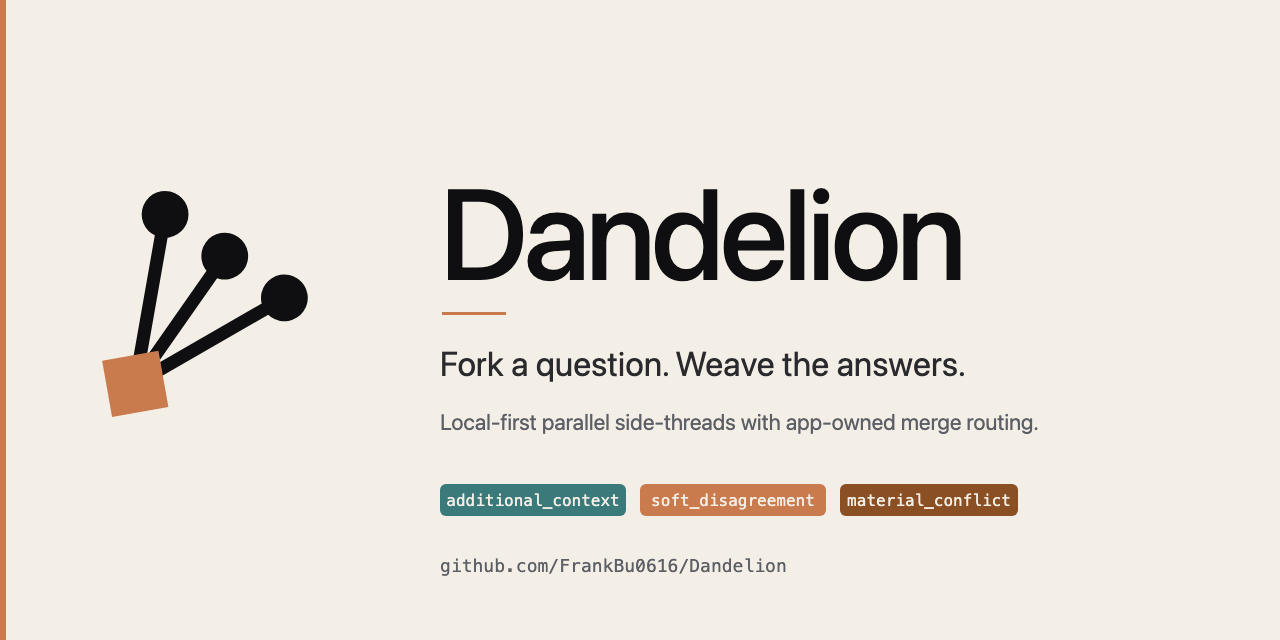
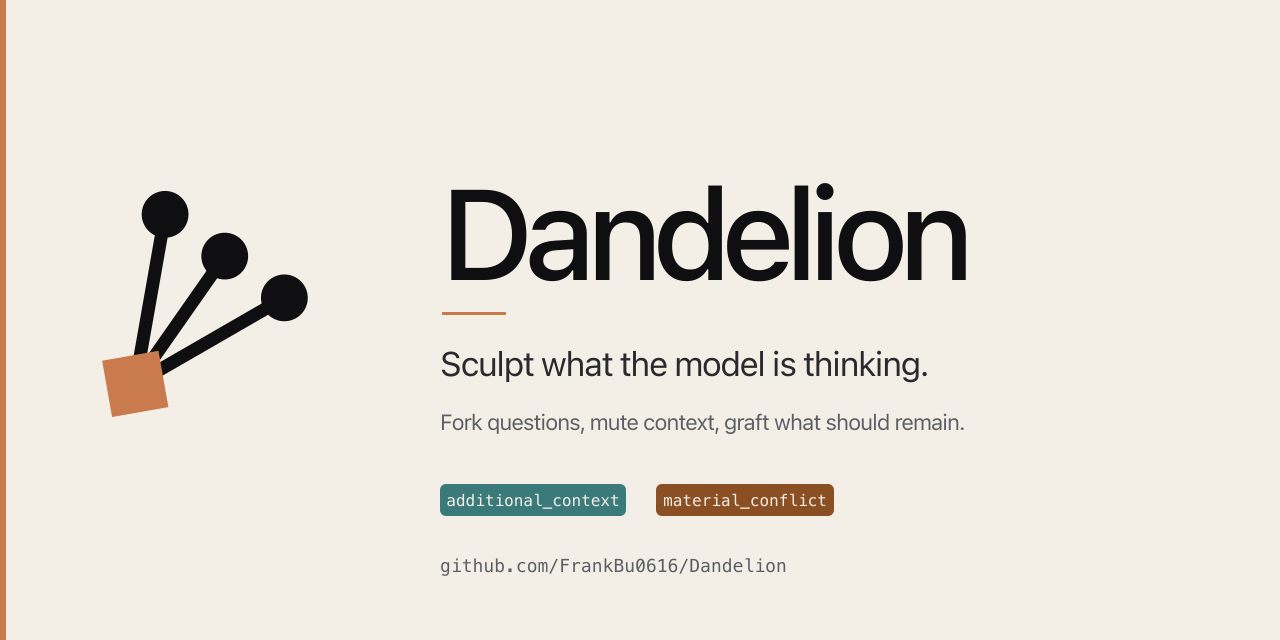
update website

diff --git a/CHANGELOG.md b/CHANGELOG.md
@@ -9,6 +9,32 @@ adheres to [Semantic Versioning][semver] for the snapshot schema (see
 [kc]: https://keepachangelog.com/en/1.1.0/
 [semver]: https://semver.org/
 
+## [0.1.2] - 2026-05-22
+
+Release-polish pass after the first public tag.
+
+### Fixed
+
+- Seed-panel layering now covers old floating graft visuals when the
+  tray is open.
+- Empty keys in `.env` are treated as unset, so copying
+  `.env.example` no longer hides provider setup warnings or model
+  discovery.
+- Node 20 CI now uses default `node --test` discovery instead of a
+  shell glob that was not portable across runners.
+
+### Changed
+
+- Seed history replay and retired legacy context fallback paths are now
+  explicit in the prototype.
+- README hero now includes the demo GIF and muted-context captions can
+  expand for longer routing records.
+
+### Tests
+
+- 54 → 61 tests, including `.env` empty-key behavior and seed-history
+  replay coverage.
+
 ## [0.1.0] - 2026-05-22
 
 First open-source release. Pre-alpha; the design is locked enough to
@@ -107,6 +133,6 @@ test the core context-modulation loop but features will change.
 
 ### Tests
 
-- 13 → 54 (`mute-filters`, `persistence`, `sessions-server`, `.env`
+- 13 → 61 (`mute-filters`, `persistence`, `sessions-server`, `.env`
   loader, and static-file gate coverage added on top of the existing
   classifier and graph tests).

diff --git a/README.md b/README.md
@@ -14,7 +14,7 @@ what should.
 [![License: MIT](https://img.shields.io/badge/license-MIT-0F0F12.svg)](./LICENSE)
 [![Node](https://img.shields.io/badge/node-%E2%89%A520-C97B4E.svg)](https://nodejs.org/)
 [![Status](https://img.shields.io/badge/status-pre--alpha-3A7A7A.svg)](#status)
-[![Tests](https://img.shields.io/badge/tests-54%20passing-3A7A7A.svg)](./tests)
+[![Tests](https://img.shields.io/badge/tests-61%20passing-3A7A7A.svg)](./tests)
 [![CI](https://github.com/FrankBu0616/Dandelion/actions/workflows/test.yml/badge.svg)](https://github.com/FrankBu0616/Dandelion/actions/workflows/test.yml)
 
 </div>
@@ -158,22 +158,36 @@ If not, the feature belongs to generic branching chat, not Dandelion.
 - 🔌 **BYO keys**, local-first — Dandelion never phones home. Your
   Anthropic key talks to Anthropic; your Ollama runs locally. No
   telemetry, no account, no hosted backend.
-- 🧪 **54 tests** covering the classifier, mute filters, persistence,
+- 🧪 **61 tests** covering the classifier, mute filters, persistence,
   server session store, and `.env` loader.
 
 ## Quick start
+
+### Try it in your browser (no clone, no install)
+
+The prototype is fully client-side: paste your own Anthropic API key (or
+point it at your local Ollama) and everything runs against api.anthropic.com
+directly from the browser. Keys live only in your `localStorage`.
+
+> Deploy your own copy in two clicks → [deploy to Vercel](https://vercel.com/new/clone?repository-url=https%3A%2F%2Fgithub.com%2FFrankBu0616%2FDandelion).
+> No build step required; Vercel serves the static prototype as-is.
+
+### Run locally (recommended for development)
 
 ```sh
 git clone https://github.com/FrankBu0616/Dandelion.git
 cd Dandelion
 cp .env.example .env       # then edit .env — fill in keys or leave blank for Ollama-only
 npm start                  # serves http://localhost:4321
-npm test                   # 54 unit tests, no network needed
+npm test                   # 61 unit tests, no network needed
 ```
 
 Requires Node.js 20+. **No `npm install`** — Dandelion has no npm
 dependencies. The prototype pulls its three frontend libraries (marked,
 KaTeX, DOMPurify) directly from CDN on page load.
+
+The local Node server is optional in the browser-direct deploy — it stays
+useful for the merge harness, scripted scenarios, and faster iteration.
 
 The server auto-loads `.env` from the repo root on startup
 (`scripts/load-env.mjs`). Values already in your shell win over the
@@ -358,7 +372,7 @@ scripts/
     prompts.mjs                    continuation-prompt builders
     sessions.mjs                   file-backed session storage (./sessions/*.json)
 sessions/                          server-side session snapshots (gitignored)
-tests/                             node:test suites (54 tests)
+tests/                             node:test suites (61 tests)
 docs/
   README.md                        docs index
   north_star.md                    product doctrine

diff --git a/docs/architecture.md b/docs/architecture.md
@@ -4,7 +4,7 @@ Architectural north star: Dandelion is a context editor, not a branching chat ap
 
 Branches can be many. The trunk's active context should be deliberate.
 
-Current prototype (as of v0.1.0):
+Current prototype (as of v0.1.2):
 
 ```text
 prototype.html                     (thin HTML shell; loads bootstrap.mjs)